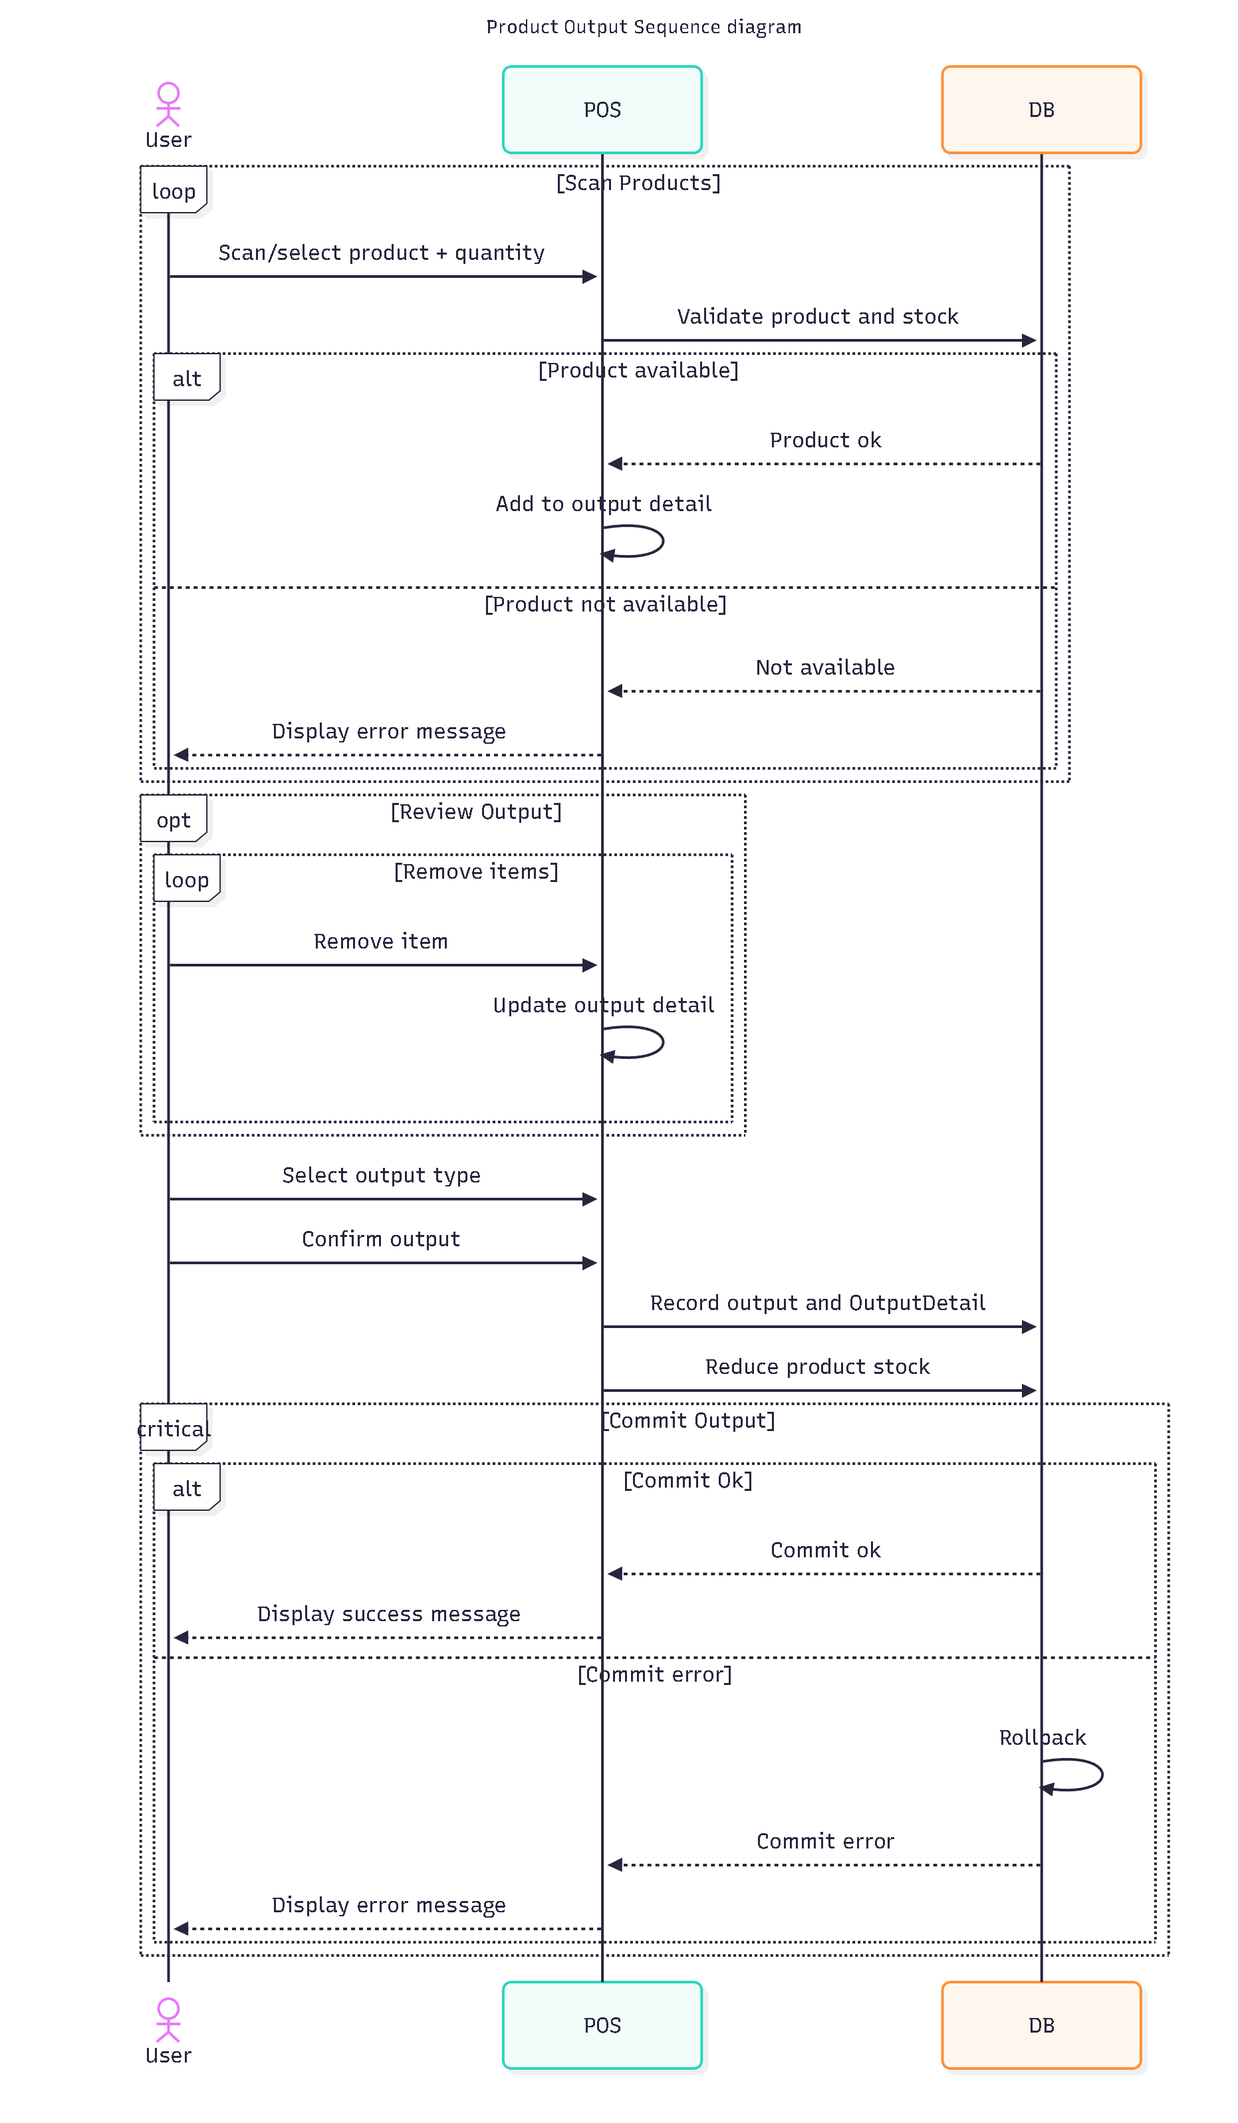
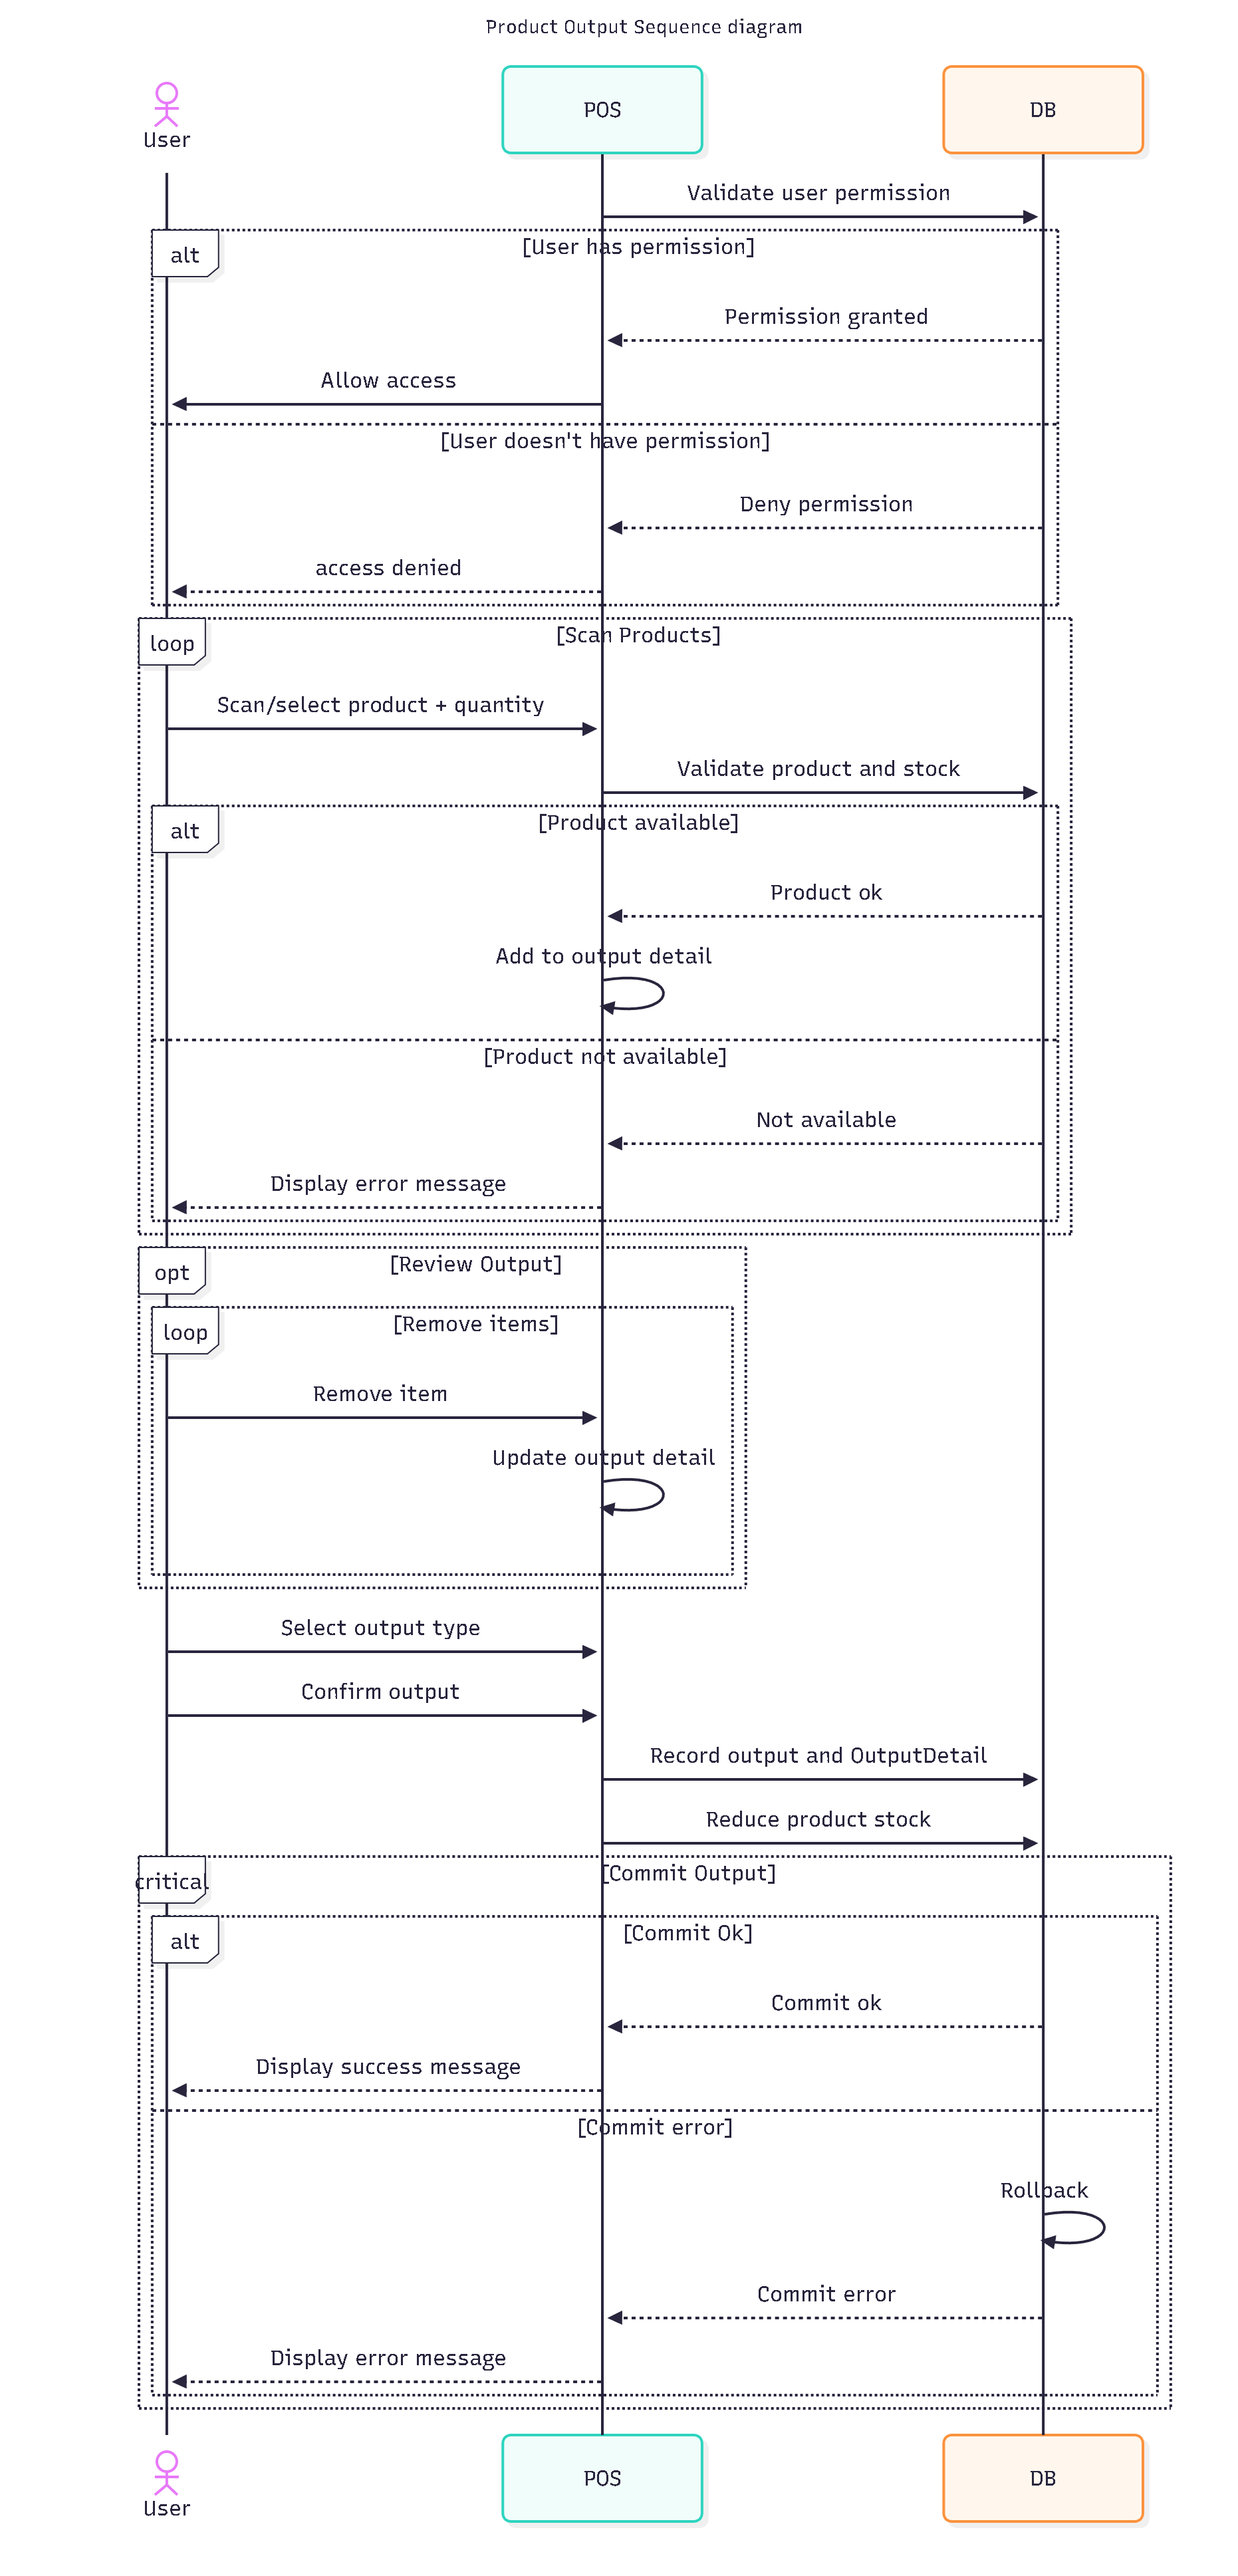
docs: add user permission validation to existing diagrams

diff --git a/Docs/04_Desing.md b/Docs/04_Desing.md
@@ -231,9 +231,16 @@ sequenceDiagram
   end
 
   POS -->> User: Show total of sale
-  loop Add payments 
-    User ->> POS: Add payment method
-    POS ->> POS: Update total paid
+  POS ->> DB: Validate user permission
+  alt User has permission
+    DB -->> POS: Permission granted
+    loop Add payments 
+      User ->> POS: Add payment method
+      POS ->> POS: Update total paid
+    end
+  else User doesn't have permission
+    DB -->> POS: Deny permission
+    POS -->> User: Permission denied
   end
 
   alt Payment complete
@@ -270,6 +277,14 @@ sequenceDiagram
   actor User as User
   participant POS as POS
   participant DB as DB
+  POS ->> DB: Validate user permission
+  alt User has permission
+    DB -->> POS: Permission granted
+    POS -->> User: Allow access
+  else User doesn't have permission
+    DB -->> POS: Deny permission
+    POS -->> User: access denied
+  end
   loop Scan Products
     User ->> POS: Scan/select product + quantity
     POS ->> DB: Validate product
@@ -315,6 +330,14 @@ sequenceDiagram
   actor User as User
   participant POS as POS
   participant DB as DB
+  POS ->> DB: Validate user permission
+  alt User has permission
+    DB -->> POS: Permission granted
+    POS ->> User: Allow access
+  else User doesn't have permission
+    DB -->> POS: Deny permission
+    POS -->> User: access denied
+  end
   loop Scan Products
     User ->> POS: Scan/select product + quantity
     POS ->> DB: Validate product and stock
